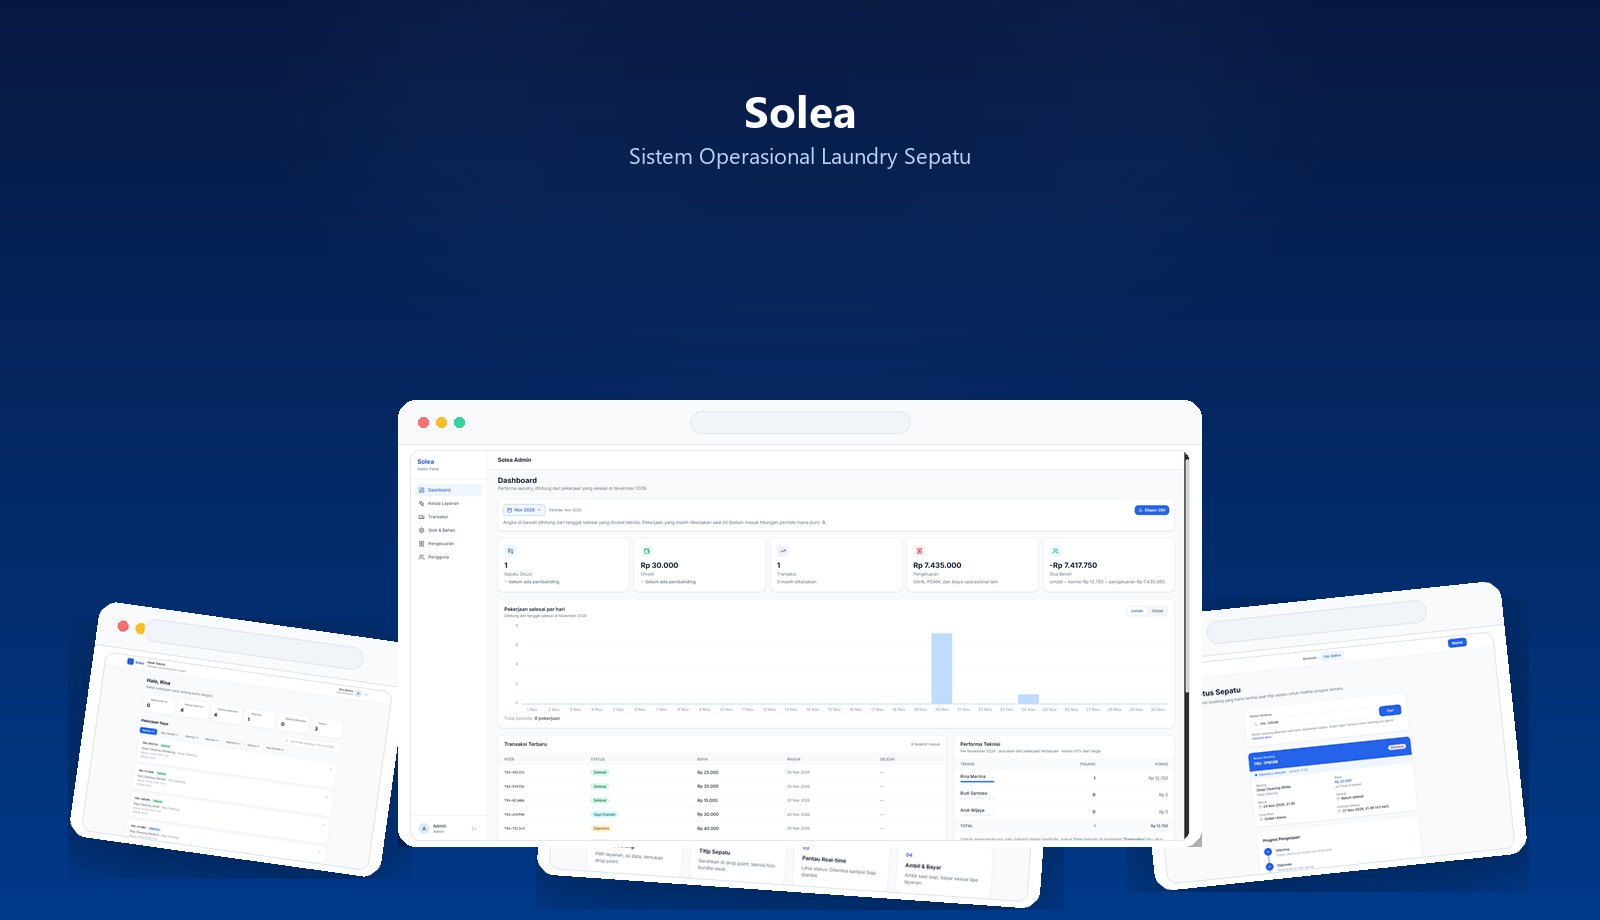
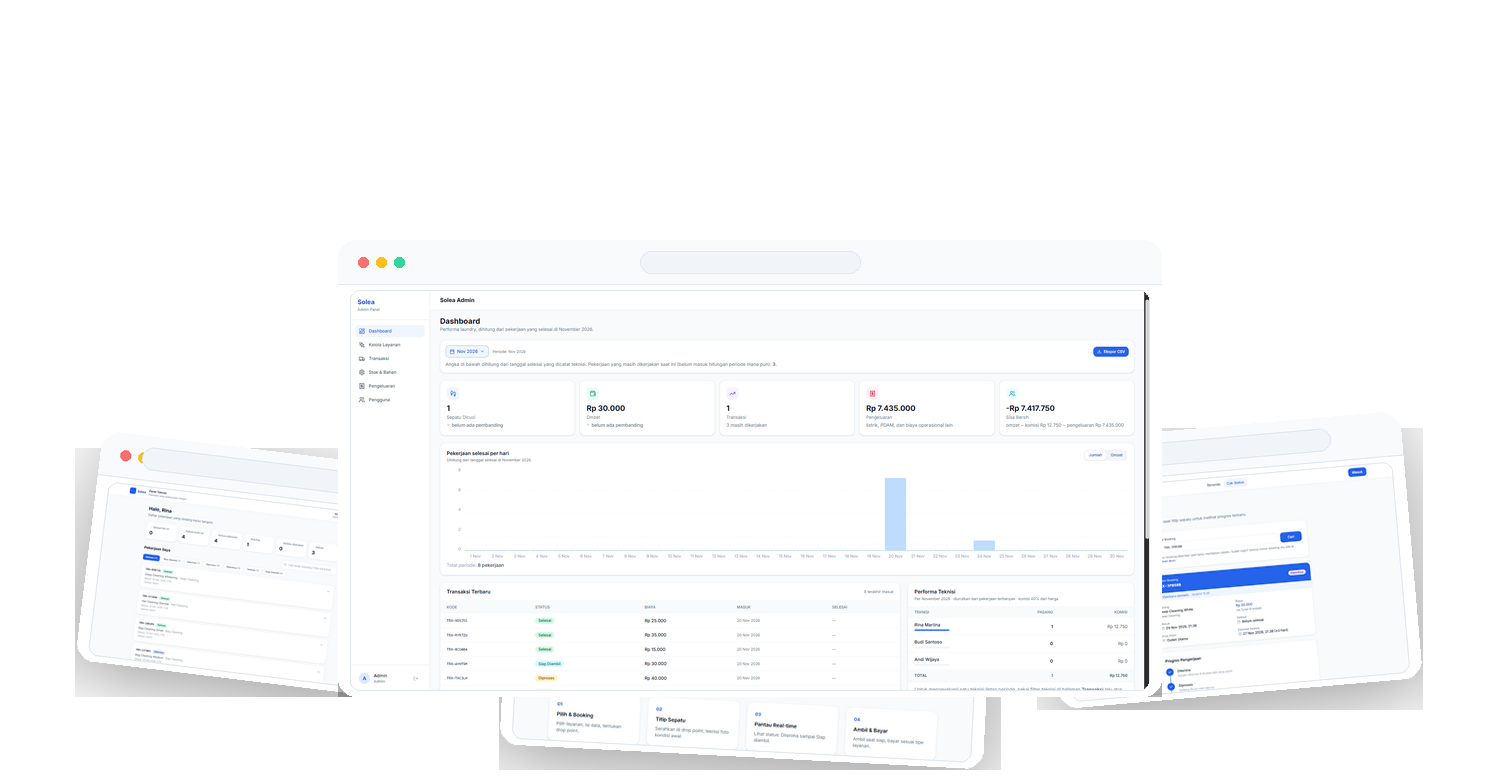
docs(readme): hero image transparan lebih compact

diff --git a/scripts/make_hero_image.py b/scripts/make_hero_image.py
@@ -1,33 +1,16 @@
 """Generate a stacked-screenshots hero image for the Solea README."""
-from PIL import Image, ImageDraw, ImageFilter, ImageFont, ImageOps
-import math
+from PIL import Image, ImageDraw, ImageFilter
 import os
 
 BASE = os.path.dirname(os.path.dirname(os.path.abspath(__file__)))
 SHOTS = os.path.join(BASE, "frontend", "public", "screenshots")
 OUT = os.path.join(SHOTS, "hero_stack.png")
 
-# Brand palette (from frontend/public/favicon.svg)
-NAVY_TOP = (8, 24, 64)
-NAVY_BOT = (0, 58, 138)
 CARD_BG = (255, 255, 255)
 BORDER = (226, 232, 240)
 DOT_COLORS = [(248, 113, 113), (251, 191, 36), (52, 211, 153)]
 
-W, H = 1600, 920
-
-
-def gradient_bg(w, h):
-    img = Image.new("RGB", (w, h))
-    px = img.load()
-    for y in range(h):
-        t = y / (h - 1)
-        r = int(NAVY_TOP[0] + (NAVY_BOT[0] - NAVY_TOP[0]) * t)
-        g = int(NAVY_TOP[1] + (NAVY_BOT[1] - NAVY_TOP[1]) * t)
-        b = int(NAVY_TOP[2] + (NAVY_BOT[2] - NAVY_TOP[2]) * t)
-        for x in range(w):
-            px[x, y] = (r, g, b)
-    return img
+W, H = 1500, 780
 
 
 def rounded_mask(size, radius):
@@ -93,34 +76,16 @@ def rotate_with_shadow(layer, angle, shadow_blur=30, shadow_alpha=90, shadow_off
     return out
 
 
-def font(size, bold=False):
-    name = "segoeuib.ttf" if bold else "segoeui.ttf"
-    return ImageFont.truetype(os.path.join("C:/Windows/Fonts", name), size)
-
-
 def main():
     # back-to-front stack: (file, width, angle, x_anchor, top_y)
+    canvas = Image.new("RGBA", (W, H), (0, 0, 0, 0))
+
     layers_spec = [
-        ("09_teknisi_queue.png", 290, -8, 0.15, 600),
-        ("02_status_tracking.png", 350, 6, 0.83, 580),
-        ("01_home_catalog.png", 480, -4, 0.50, 520),
-        ("Dashboard.png", 780, 0, 0.50, 400),
+        ("09_teknisi_queue.png", 280, -7, 0.16, 430),
+        ("02_status_tracking.png", 340, 5, 0.82, 410),
+        ("01_home_catalog.png", 460, -3, 0.50, 450),
+        ("Dashboard.png", 800, 0, 0.50, 240),
     ]
-
-    bg = gradient_bg(W, H).convert("RGBA")
-
-    # subtle vignette dots? keep clean. Add soft radial light top-center.
-    light = Image.new("RGBA", (W, H), (0, 0, 0, 0))
-    ld = ImageDraw.Draw(light)
-    for i in range(6):
-        r = 500 - i * 60
-        alpha = 14 - i * 2
-        ld.ellipse([W // 2 - r, 120 - r // 2, W // 2 + r, 120 + r // 2],
-                   fill=(120, 170, 255, max(alpha, 0)))
-    light = light.filter(ImageFilter.GaussianBlur(80))
-    bg.alpha_composite(light)
-
-    canvas = bg
 
     for fname, tw, angle, x_anchor, top_y in layers_spec:
         win = make_window(os.path.join(SHOTS, fname), tw)
@@ -129,19 +94,7 @@ def main():
         top = min(int(top_y), H - 10 - layer.height)
         canvas.alpha_composite(layer, (x, top))
 
-    # caption
-    d = ImageDraw.Draw(canvas)
-    f_title = font(44, bold=True)
-    f_sub = font(22)
-    title = "Solea"
-    sub = "Sistem Operasional Laundry Sepatu"
-    tw = d.textlength(title, font=f_title)
-    d.text((W / 2 - tw / 2, 80), title, font=f_title, fill=(255, 255, 255))
-    tw2 = d.textlength(sub, font=f_sub)
-    d.text((W / 2 - tw2 / 2, 140), sub, font=f_sub, fill=(190, 210, 245))
-
-    # bottom fade to transparent-ish dark for text safety not needed; save RGB
-    canvas.convert("RGB").save(OUT, "PNG", optimize=True)
+    canvas.save(OUT, "PNG", optimize=True)
     print("saved", OUT, canvas.size)
 
 
